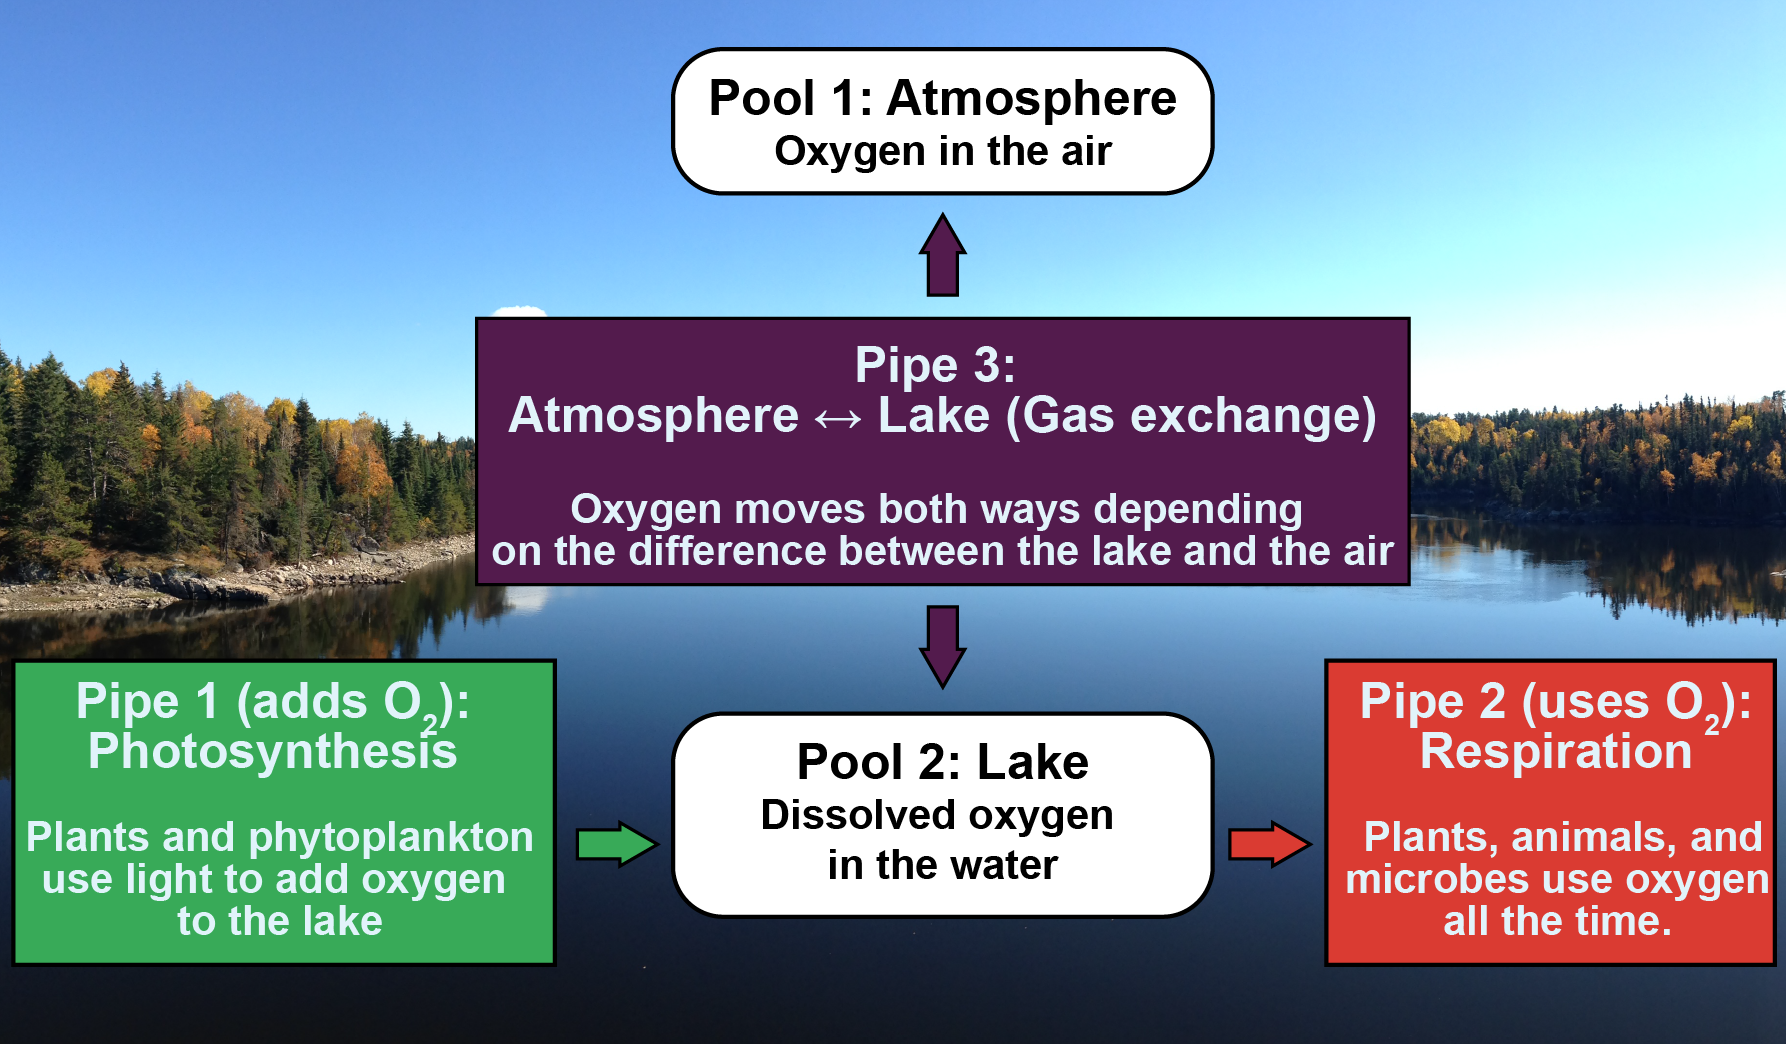
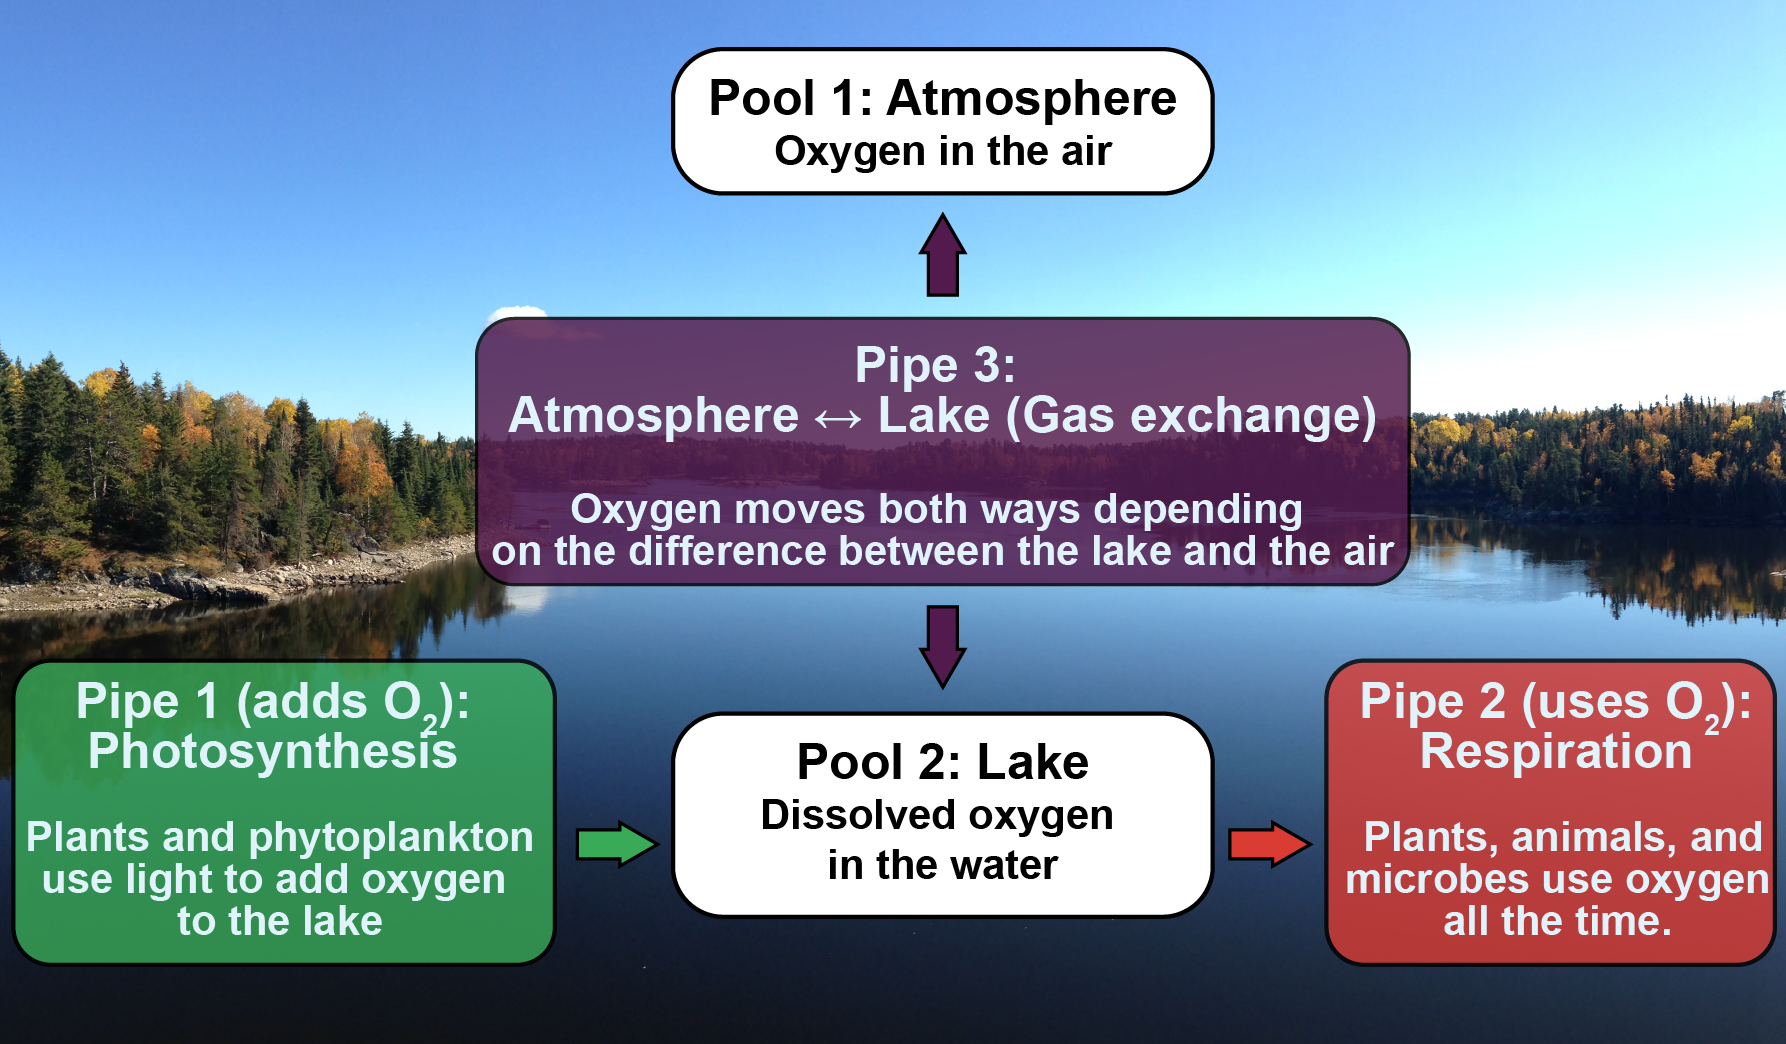
Update the Pools and buoy diagram images

diff --git a/module2.html b/module2.html
@@ -38,7 +38,7 @@
       </p>
     </div>
     <div class="header-photo" style="width:495px;">
-      <img src="images/Pools.png?v=3" alt="Diagram of the lake's oxygen budget: two pools, the atmosphere and the lake's dissolved oxygen, connected by three pipes. Photosynthesis adds oxygen to the lake, respiration uses it, and gas exchange moves it between the lake and the air in both directions." style="width:100%; height:auto;">
+      <img src="images/Pools.png?v=4" alt="Diagram of the lake's oxygen budget: two pools, the atmosphere and the lake's dissolved oxygen, connected by three pipes. Photosynthesis adds oxygen to the lake, respiration uses it, and gas exchange moves it between the lake and the air in both directions." style="width:100%; height:auto;">
       <p class="header-photo-credit">Photo by Hilary Dugan</p>
     </div>
   </div>

diff --git a/index.html b/index.html
@@ -68,7 +68,7 @@
         </p>
       </div>
       <div style="flex:0 0 450px; max-width:100%;">
-        <img src="images/buoy-diagram.png?v=3" alt="Illustration of a yellow lake buoy labeled with its four sensors: wind speed above the water, and PAR sensor, dissolved oxygen sensor, and temperature chain below the water." style="display:block; width:100%; height:auto; border-radius:var(--card-radius);">
+        <img src="images/buoy-diagram.png?v=4" alt="Illustration of a yellow lake buoy labeled with its four sensors: wind speed above the water, and PAR sensor, dissolved oxygen sensor, and temperature chain below the water." style="display:block; width:100%; height:auto; border-radius:var(--card-radius);">
       </div>
     </div>
 
